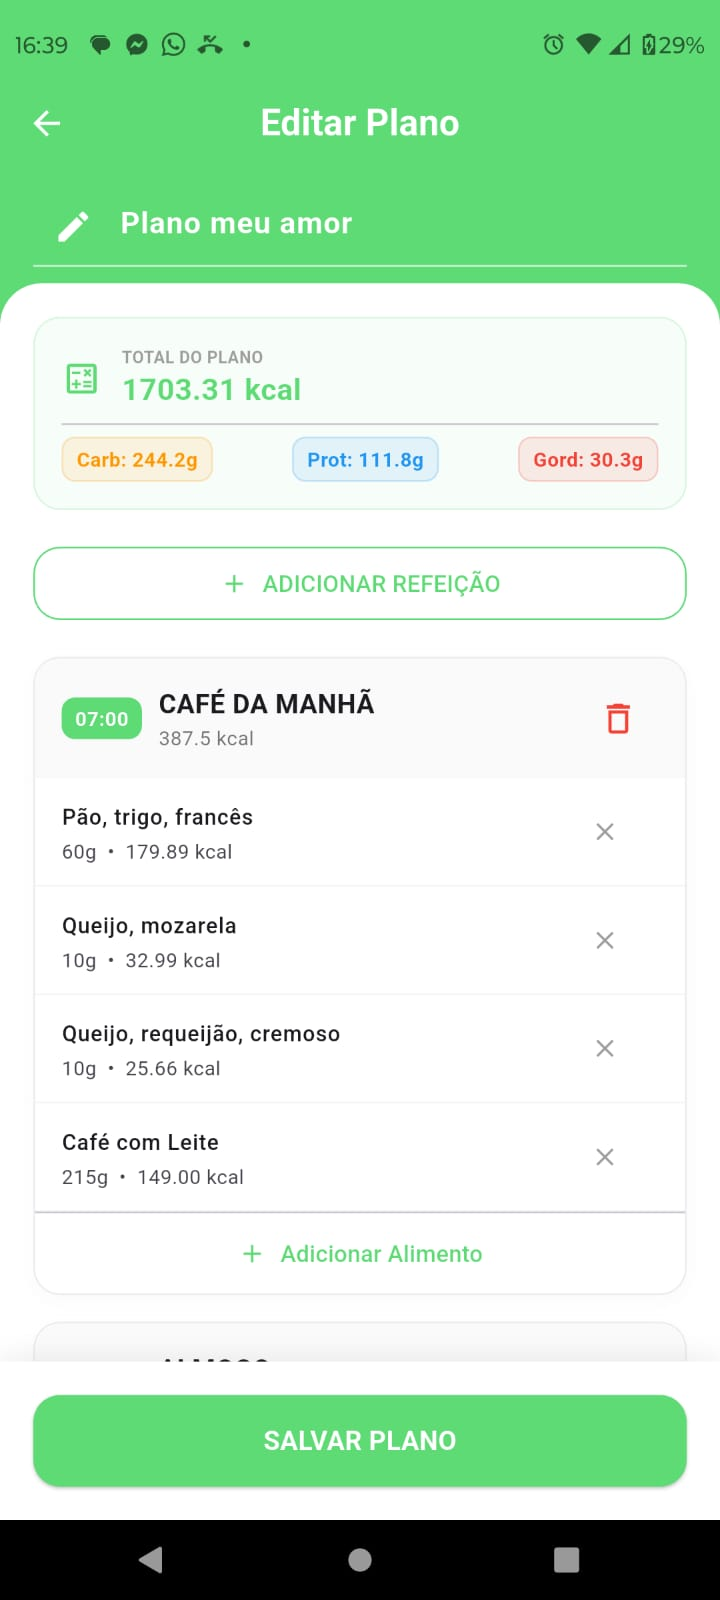
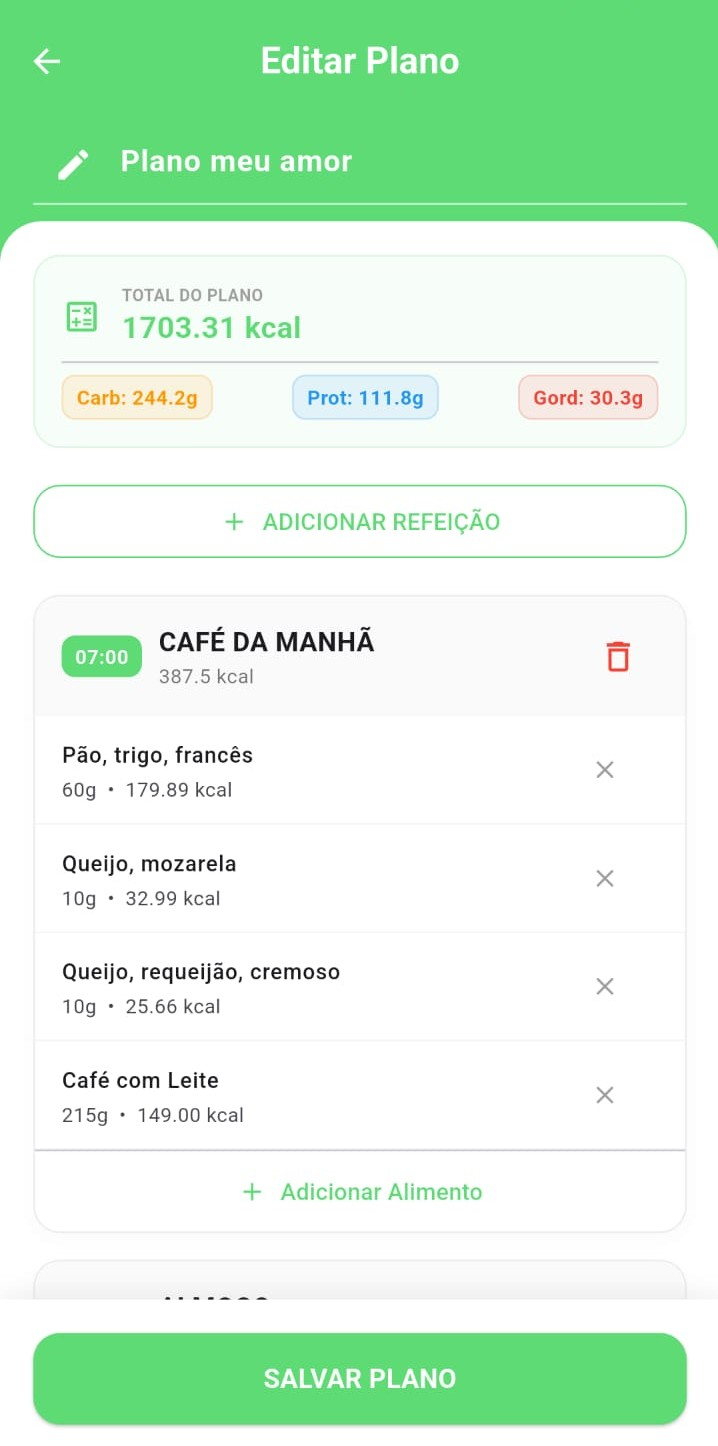
cortando a imagem

diff --git a/README.md b/README.md
@@ -38,7 +38,7 @@ O projeto integra a **Tabela TACO** (Tabela Brasileira de Composição de Alimen
 
 | Login | Editor de Plano | Plano | Macros e Micronutrientes | Histórico de Avaliações |
 |:---:|:---:|:---:|:---:|:---:|
-| <img src="assets/logo_menor.png" width="200" alt="Login" /> | <img src="assets/edicao_plano.jpeg" width="200" alt="EditorPlano" /> | <img src="assets/plano.jpeg" width="200" alt="Plano" /> | <img src="assets/macros_micros.jpeg" width="200" alt="MacrosMicros" /> | <img src="assets/historico_avaliacoes.jpeg" width="200" alt="Antropometria" /> |
+| <img src="assets/logo_menor.png" width="200" alt="Login" /> | <img src="assets/edicao_plano.jpeg" width="200" alt="EditorPlano" /> | <img src="assets/plano.jpeg" width="200" alt="Plano" /> | <img src="assets/macros_micros.jpeg" width="200" alt="MacrosMicros" /> | <img src="assets/historico_avalicoes.jpeg" width="200" alt="Antropometria" /> |
 
 ## 🚀 Como Rodar o Projeto
 
